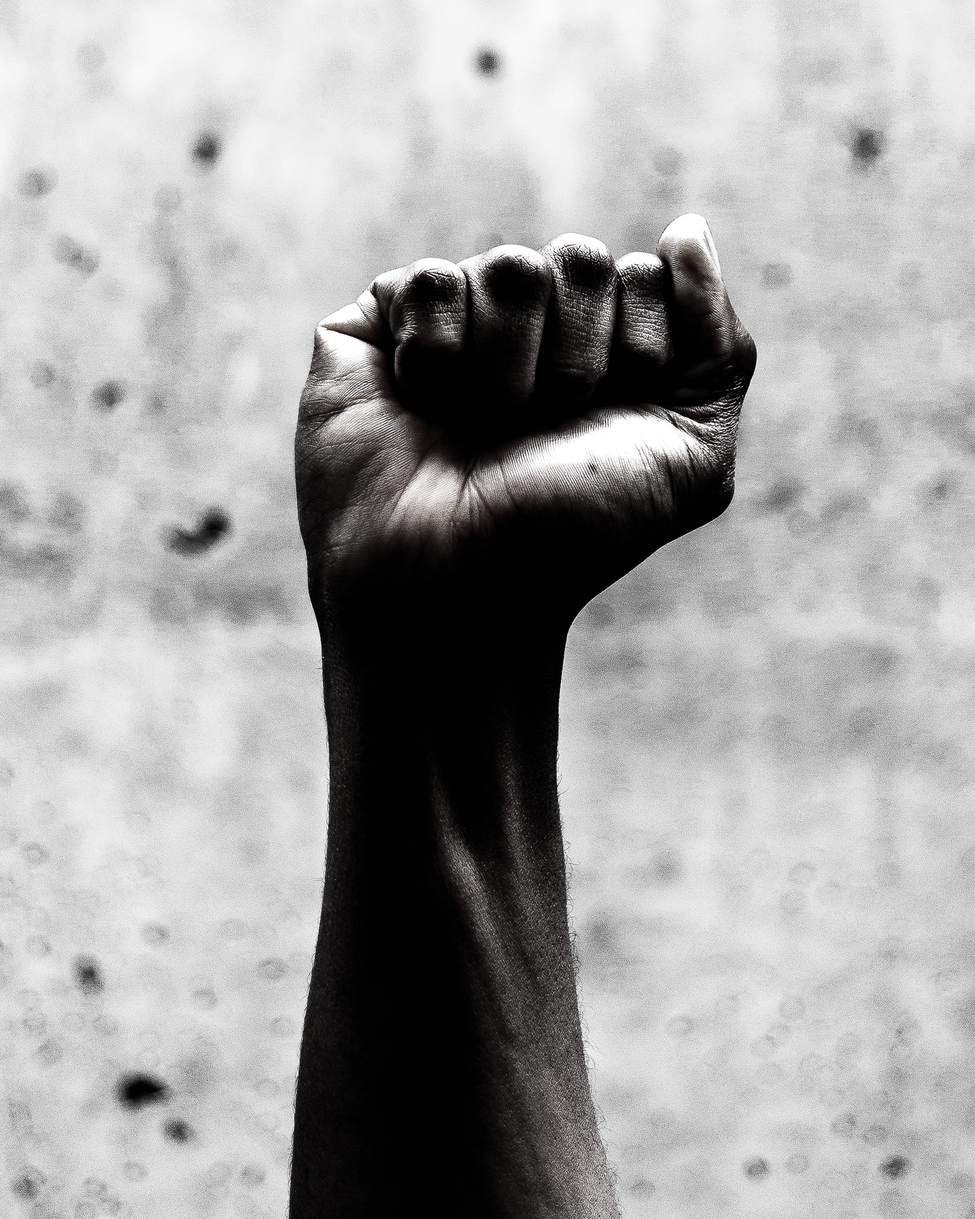
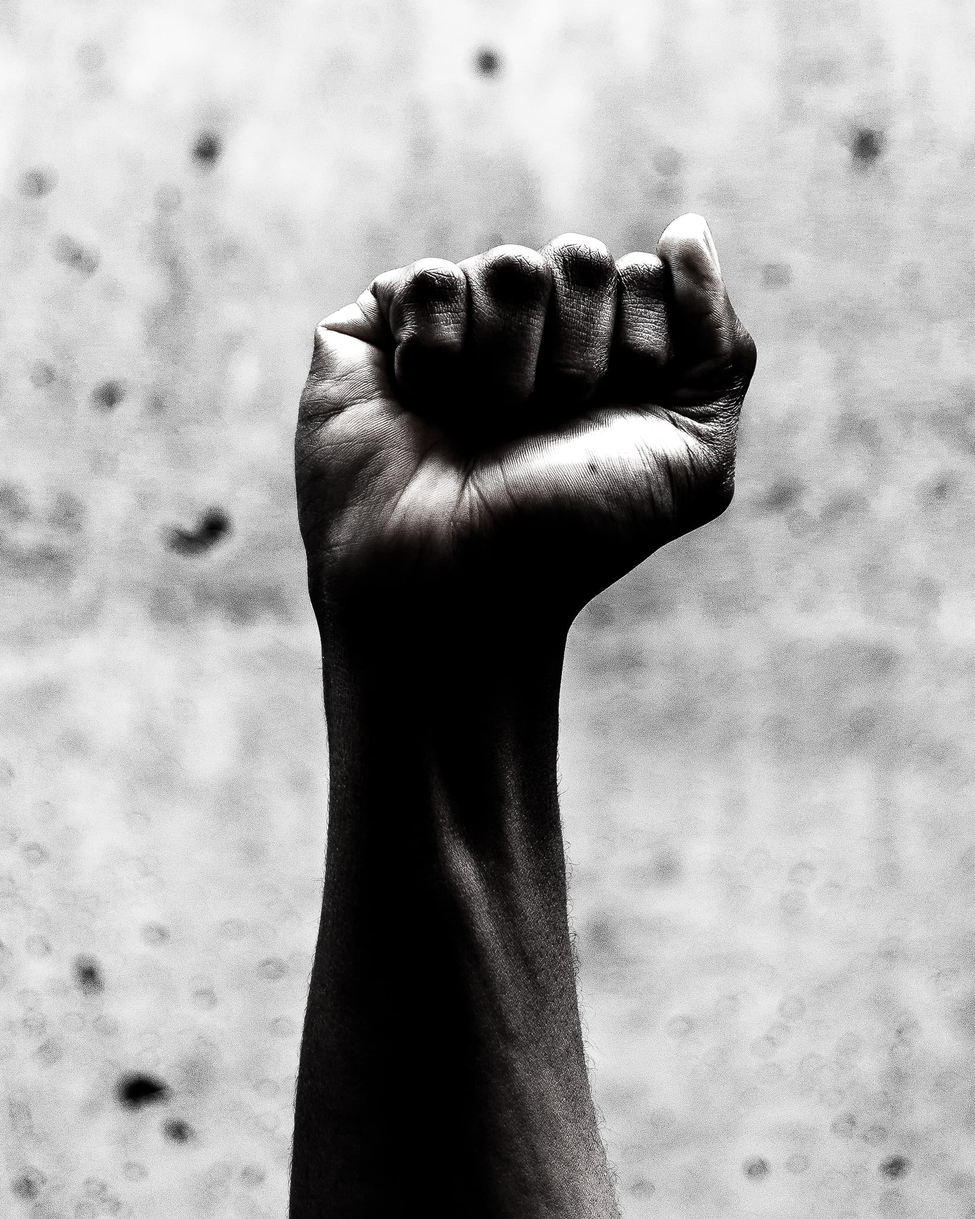
Improve image sizes

Changed region(s): [[0.6501, 0.4658, 0.6811, 0.4969], [0.5882, 0.9937, 0.6192, 1.0], [0.1857, 0.4658, 0.2167, 0.4969]]

diff --git a/src/routes/africaDay/index.svelte b/src/routes/africaDay/index.svelte
@@ -29,6 +29,15 @@
   }
 </style>
 
+<svelte:head>
+  <title>Africa Day Pre-event | NexusAfrik</title>
+  <meta
+    name="description"
+    content="NexusAfrik is a collective of African youth who want to make a
+    difference in the continent and have an impact in the fight against the
+    novel coronavirus." />
+</svelte:head>
+
 <div class="top pb-16 min-h-screen">
   <div class="relative">
     <div
@@ -73,11 +82,11 @@
 
   <img
     class="mt-8 hidden sm:block"
-    src="/AfricaDay_BannerLarge.png"
+    src="/AfricaDay_BannerLarge.jpg"
     alt="Africa Day" />
   <img
     class="mt-8 sm:hidden"
-    src="/AfricaDay_BannerMobile.png"
+    src="/AfricaDay_BannerMobile.jpg"
     alt="Africa Day" />
 
   <!-- <div class="mt-4 flex items-center justify-center p-4">

diff --git a/src/routes/index.svelte b/src/routes/index.svelte
@@ -145,6 +145,6 @@
 </div>
 
 <a href="/africaDay">
-  <img class="hidden sm:block" src="/AfricaDay_BannerLarge.png" alt="Africa Day" />
-  <img class="sm:hidden" src="/AfricaDay_BannerMobile.png" alt="Africa Day" />
+  <img class="hidden sm:block" src="/AfricaDay_BannerLarge.jpg" alt="Africa Day" />
+  <img class="sm:hidden" src="/AfricaDay_BannerMobile.jpg" alt="Africa Day" />
 </a>
